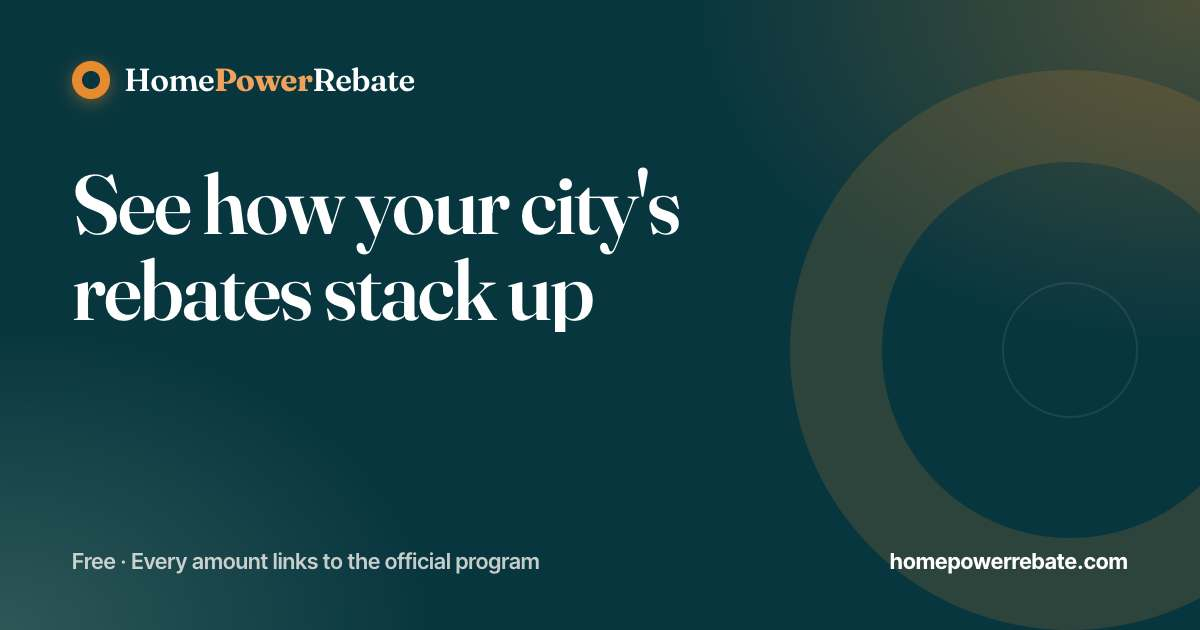
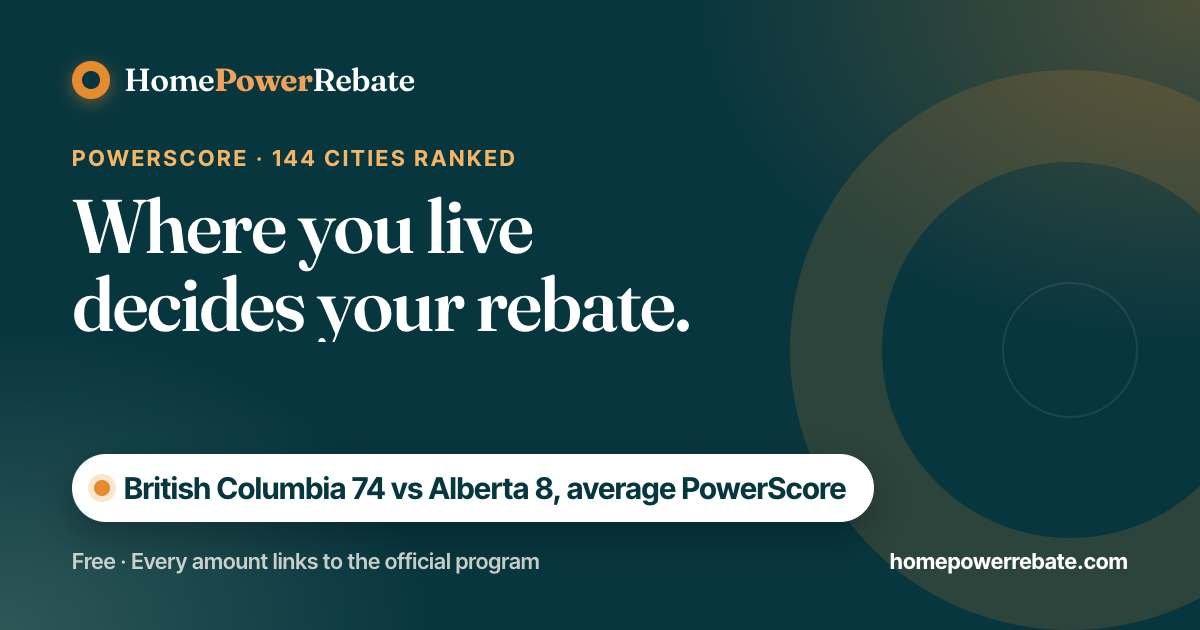
PowerScore share card with the new headline and the rebate gap; California hub keeps its calculator link on rebuild
- og/powerscore.jpg re-rendered: "Where you live decides your rebate." with "British Columbia 74 vs Alberta 8,
  average PowerScore". build_og_cards.py reads the gap from the page's rebate-gap card, and its text() no longer
  puts a space before punctuation that follows a tag ("rebate ." from <em>rebate</em>.).
- build_hub_tops.py rewrote the whole California HUB-BODY block, dropping blocks other scripts put inside it
  (CALC-LINK from build_calculator.py, plus HUB-STATS, HUB-SHOWCASE and HUB-TOC, which later steps rebuild).
  It now carries over any marker block the new body lacks, in its old place.

Changed region(s): [[0.0617, 0.2111, 0.5858, 0.5429], [0.0617, 0.6937, 0.74, 0.8444]]

diff --git a/powerscore/index.html b/powerscore/index.html
@@ -298,13 +298,13 @@ body{margin:0;background:var(--paper);color:var(--ink);font-family:'Inter Tight'
 <link rel="icon" href="/favicon.ico" sizes="48x48">
 <link rel="apple-touch-icon" href="/apple-touch-icon.png">
 <!-- OG-CARD-START -->
-<meta property="og:image" content="https://homepowerrebate.com/og/powerscore.jpg?v=c5981c4cdded">
+<meta property="og:image" content="https://homepowerrebate.com/og/powerscore.jpg?v=d367e23d3037">
 <meta property="og:image:width" content="1200">
 <meta property="og:image:height" content="630">
 <meta property="og:image:type" content="image/jpeg">
 <meta property="og:image:alt" content="PowerScore: City Rebate Rankings 2026 | HomePowerRebate">
 <meta name="twitter:card" content="summary_large_image">
-<meta name="twitter:image" content="https://homepowerrebate.com/og/powerscore.jpg?v=c5981c4cdded">
+<meta name="twitter:image" content="https://homepowerrebate.com/og/powerscore.jpg?v=d367e23d3037">
 <!-- OG-CARD-END -->
 </head>
 <body class="tpl-powerscore">

diff --git a/scripts/build_hub_tops.py b/scripts/build_hub_tops.py
@@ -217,6 +217,27 @@ def replace_or_insert(s, start, end, block, after_re):
     return s[:m.end()] + "\n" + block + s[m.end():]
 
 
+MARKER_BLOCK_RE = re.compile(r"<!-- ([A-Z0-9-]+)-START -->.*?<!-- \1-END -->", re.S)
+
+
+def keep_marker_blocks(old_body, new_body):
+    """Other scripts inject their own marker blocks into the California body (CALC-LINK from build_calculator.py,
+    HUB-STATS, HUB-SHOWCASE, HUB-TOC). Carry over any the new body lacks, in their old order: those that sat
+    before HUB-TOP go back before it, the rest go after the changes box (or HUB-TOP)."""
+    top_at = old_body.find(TOP_S)
+    before, after = [], []
+    for m in MARKER_BLOCK_RE.finditer(old_body):
+        if m.group(1) in ("HUB-BODY", "HUB-TOP", "HUB-CHANGES") or f"<!-- {m.group(1)}-START -->" in new_body:
+            continue
+        (before if top_at != -1 and m.start() < top_at else after).append(m.group(0))
+    if before and TOP_S in new_body:
+        new_body = new_body.replace(TOP_S, "".join(before) + TOP_S, 1)
+    end = CH_E if CH_E in new_body else TOP_E
+    if after and end in new_body:
+        new_body = new_body.replace(end, end + "\n" + "\n".join(after), 1)
+    return new_body
+
+
 def main():
     for key, cfg in HUBS.items():
         f = ROOT / key / "index.html"
@@ -229,6 +250,7 @@ def main():
                        lambda m: "" if "Which region am I in?" in m.group(0) else m.group(0), s, flags=re.S)
             body = ca_body(cfg)
             if BODY_S in s:
+                body = keep_marker_blocks(s[s.index(BODY_S):s.index(BODY_E)], body)
                 s = re.sub(re.escape(BODY_S) + ".*?" + re.escape(BODY_E), lambda m: body, s, count=1, flags=re.S)
             else:
                 a = s.index("<!-- ============================ /NAV ============================== -->") + len("<!-- ============================ /NAV ============================== -->")

diff --git a/scripts/build_og_cards.py b/scripts/build_og_cards.py
@@ -29,7 +29,8 @@ TRUST = {
 
 
 def text(s):
-    return re.sub(r"\s+", " ", html.unescape(re.sub(r"<[^>]+>", " ", s or ""))).strip()
+    t = re.sub(r"\s+", " ", html.unescape(re.sub(r"<[^>]+>", " ", s or ""))).strip()
+    return re.sub(r" ([.,!?;:])", r"\1", t)  # "your <em>rebate</em>." must not read "rebate ."
 
 
 def first(pattern, s, flags=re.S):
@@ -68,6 +69,12 @@ def page_data(rel, s):
         eyebrow = first(r'<header class="hero hub-hero"><div class="wrap"><div class="eyebrow">(.*?)</div>', s)
         big = re.search(r'<div class="hs-stat"><b>([^<]*)<small>([^<]*)</small></b><span>biggest single rebate</span>', s)
         key = f"Biggest open rebate: {text(big.group(1))} ({text(big.group(2)).lower()})" if big else ""
+    elif 'class="ps-gap"' in s:  # /powerscore/: the rebate gap, best region vs lowest
+        gap = re.findall(r'<span class="ps-gap-name">(.*?)</span>.*?<b>(\d+)</b>', s, re.S)
+        n = first(r'Three things we learned scoring (\d+) cities', s)
+        if len(gap) >= 2:
+            key = f"{text(gap[0][0])} {gap[0][1]} vs {text(gap[-1][0])} {gap[-1][1]}, average PowerScore"
+        eyebrow = f"PowerScore · {n} cities ranked" if n else "PowerScore"
     else:
         badge = first(r'class="amount-badge">(.*?)</div>', s)
         key = badge if badge and len(badge) <= 70 else ""
